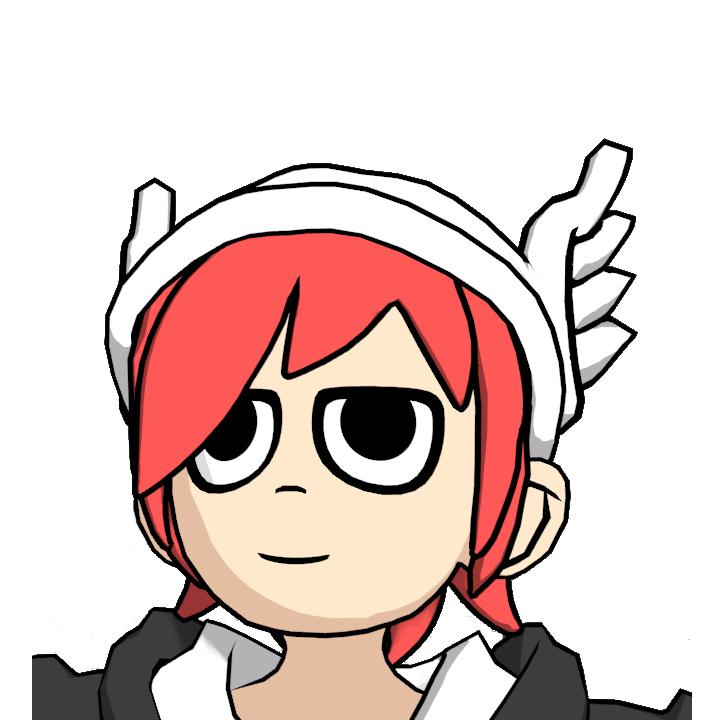
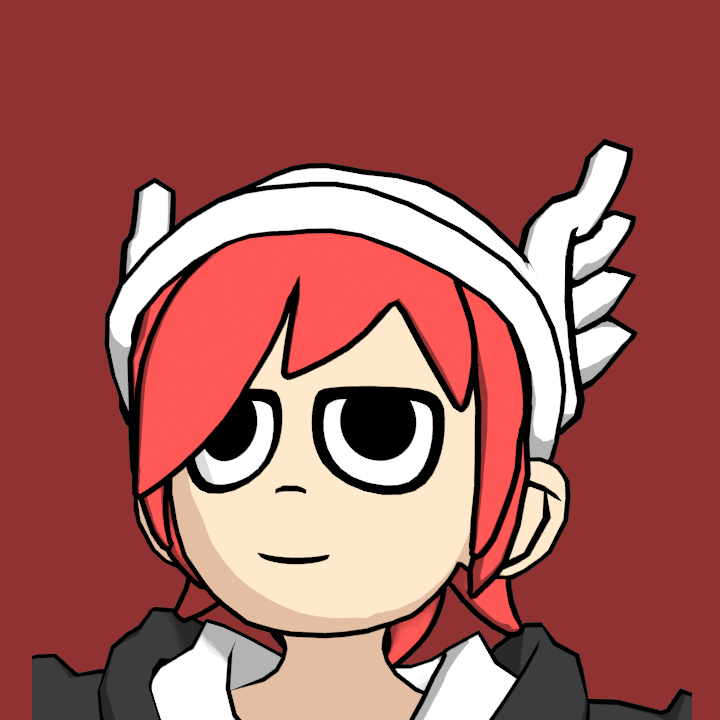
fixes for image profile background color, resume download and HFSM project thumbail

diff --git a/public/projects/index.html b/public/projects/index.html
@@ -43,7 +43,7 @@
   <div class="sidebar-content">
     <h1 class="sidebar-heading"><a href="http://localhost:1313/">Alejandro Moya</a></h1>
 	<img id="profile-picture" class="img-responsive" src="/img/ProfilePicture.png"/>
-	<a id="curriculum" title ="Download CV" href="/resume/ResumeAlejandroMoya.pdf" target="_blank" >
+	<a id="curriculum" title ="Download CV" href="http://localhost:1313//resume/ResumeAlejandroMoya.pdf" target="_blank" >
 		<svg xmlns="http://www.w3.org/2000/svg" width="70" height="70" fill="currentColor" class="bi bi-file-earmark-text" viewBox="0 0 16 16">
 		  <path d="M5.5 7a.5.5 0 0 0 0 1h5a.5.5 0 0 0 0-1zM5 9.5a.5.5 0 0 1 .5-.5h5a.5.5 0 0 1 0 1h-5a.5.5 0 0 1-.5-.5m0 2a.5.5 0 0 1 .5-.5h2a.5.5 0 0 1 0 1h-2a.5.5 0 0 1-.5-.5"/>
 		  <path d="M9.5 0H4a2 2 0 0 0-2 2v12a2 2 0 0 0 2 2h8a2 2 0 0 0 2-2V4.5zm0 1v2A1.5 1.5 0 0 0 11 4.5h2V14a1 1 0 0 1-1 1H4a1 1 0 0 1-1-1V2a1 1 0 0 1 1-1z"/>
@@ -150,7 +150,7 @@
                         
                         <a href="http://localhost:1313/projects/hfsm/" title="" class="box-masonry-image with-hover-overlay with-hover-icon projects">
                         
-                        <img src="http://localhost:1313/img/HFSM.png" alt="" class="img-responsive">
+                        <img src="http://localhost:1313/img/HFSMLogo.png" alt="" class="img-responsive">
                         
                       
                       

diff --git a/themes/hugo-creative-portfolio-theme/layouts/partials/sidebar.html b/themes/hugo-creative-portfolio-theme/layouts/partials/sidebar.html
@@ -2,7 +2,7 @@
   <div class="sidebar-content">
     <h1 class="sidebar-heading"><a href="{{ .Site.BaseURL }}">{{ .Site.Title }}</a></h1>
 	<img id="profile-picture" class="img-responsive" src="{{.Site.Params.profilepicturepath}}"/>
-	<a id="curriculum" title ="Download CV" href="/resume/ResumeAlejandroMoya.pdf" target="_blank" >
+	<a id="curriculum" title ="Download CV" href="{{ .Site.BaseURL }}/resume/ResumeAlejandroMoya.pdf" target="_blank" >
 		<svg xmlns="http://www.w3.org/2000/svg" width="70" height="70" fill="currentColor" class="bi bi-file-earmark-text" viewBox="0 0 16 16">
 		  <path d="M5.5 7a.5.5 0 0 0 0 1h5a.5.5 0 0 0 0-1zM5 9.5a.5.5 0 0 1 .5-.5h5a.5.5 0 0 1 0 1h-5a.5.5 0 0 1-.5-.5m0 2a.5.5 0 0 1 .5-.5h2a.5.5 0 0 1 0 1h-2a.5.5 0 0 1-.5-.5"/>
 		  <path d="M9.5 0H4a2 2 0 0 0-2 2v12a2 2 0 0 0 2 2h8a2 2 0 0 0 2-2V4.5zm0 1v2A1.5 1.5 0 0 0 11 4.5h2V14a1 1 0 0 1-1 1H4a1 1 0 0 1-1-1V2a1 1 0 0 1 1-1z"/>

diff --git a/public/404.html b/public/404.html
@@ -41,7 +41,7 @@
   <div class="sidebar-content">
     <h1 class="sidebar-heading"><a href="http://localhost:1313/">Alejandro Moya</a></h1>
 	<img id="profile-picture" class="img-responsive" src="/img/ProfilePicture.png"/>
-	<a id="curriculum" title ="Download CV" href="/resume/ResumeAlejandroMoya.pdf" target="_blank" >
+	<a id="curriculum" title ="Download CV" href="http://localhost:1313//resume/ResumeAlejandroMoya.pdf" target="_blank" >
 		<svg xmlns="http://www.w3.org/2000/svg" width="70" height="70" fill="currentColor" class="bi bi-file-earmark-text" viewBox="0 0 16 16">
 		  <path d="M5.5 7a.5.5 0 0 0 0 1h5a.5.5 0 0 0 0-1zM5 9.5a.5.5 0 0 1 .5-.5h5a.5.5 0 0 1 0 1h-5a.5.5 0 0 1-.5-.5m0 2a.5.5 0 0 1 .5-.5h2a.5.5 0 0 1 0 1h-2a.5.5 0 0 1-.5-.5"/>
 		  <path d="M9.5 0H4a2 2 0 0 0-2 2v12a2 2 0 0 0 2 2h8a2 2 0 0 0 2-2V4.5zm0 1v2A1.5 1.5 0 0 0 11 4.5h2V14a1 1 0 0 1-1 1H4a1 1 0 0 1-1-1V2a1 1 0 0 1 1-1z"/>

diff --git a/public/categories/index.html b/public/categories/index.html
@@ -43,7 +43,7 @@
   <div class="sidebar-content">
     <h1 class="sidebar-heading"><a href="http://localhost:1313/">Alejandro Moya</a></h1>
 	<img id="profile-picture" class="img-responsive" src="/img/ProfilePicture.png"/>
-	<a id="curriculum" title ="Download CV" href="/resume/ResumeAlejandroMoya.pdf" target="_blank" >
+	<a id="curriculum" title ="Download CV" href="http://localhost:1313//resume/ResumeAlejandroMoya.pdf" target="_blank" >
 		<svg xmlns="http://www.w3.org/2000/svg" width="70" height="70" fill="currentColor" class="bi bi-file-earmark-text" viewBox="0 0 16 16">
 		  <path d="M5.5 7a.5.5 0 0 0 0 1h5a.5.5 0 0 0 0-1zM5 9.5a.5.5 0 0 1 .5-.5h5a.5.5 0 0 1 0 1h-5a.5.5 0 0 1-.5-.5m0 2a.5.5 0 0 1 .5-.5h2a.5.5 0 0 1 0 1h-2a.5.5 0 0 1-.5-.5"/>
 		  <path d="M9.5 0H4a2 2 0 0 0-2 2v12a2 2 0 0 0 2 2h8a2 2 0 0 0 2-2V4.5zm0 1v2A1.5 1.5 0 0 0 11 4.5h2V14a1 1 0 0 1-1 1H4a1 1 0 0 1-1-1V2a1 1 0 0 1 1-1z"/>

diff --git a/public/education/index.html b/public/education/index.html
@@ -41,7 +41,7 @@
   <div class="sidebar-content">
     <h1 class="sidebar-heading"><a href="http://localhost:1313/">Alejandro Moya</a></h1>
 	<img id="profile-picture" class="img-responsive" src="/img/ProfilePicture.png"/>
-	<a id="curriculum" title ="Download CV" href="/resume/ResumeAlejandroMoya.pdf" target="_blank" >
+	<a id="curriculum" title ="Download CV" href="http://localhost:1313//resume/ResumeAlejandroMoya.pdf" target="_blank" >
 		<svg xmlns="http://www.w3.org/2000/svg" width="70" height="70" fill="currentColor" class="bi bi-file-earmark-text" viewBox="0 0 16 16">
 		  <path d="M5.5 7a.5.5 0 0 0 0 1h5a.5.5 0 0 0 0-1zM5 9.5a.5.5 0 0 1 .5-.5h5a.5.5 0 0 1 0 1h-5a.5.5 0 0 1-.5-.5m0 2a.5.5 0 0 1 .5-.5h2a.5.5 0 0 1 0 1h-2a.5.5 0 0 1-.5-.5"/>
 		  <path d="M9.5 0H4a2 2 0 0 0-2 2v12a2 2 0 0 0 2 2h8a2 2 0 0 0 2-2V4.5zm0 1v2A1.5 1.5 0 0 0 11 4.5h2V14a1 1 0 0 1-1 1H4a1 1 0 0 1-1-1V2a1 1 0 0 1 1-1z"/>

diff --git a/public/projects/christmaspizza/index.html b/public/projects/christmaspizza/index.html
@@ -41,7 +41,7 @@
   <div class="sidebar-content">
     <h1 class="sidebar-heading"><a href="http://localhost:1313/">Alejandro Moya</a></h1>
 	<img id="profile-picture" class="img-responsive" src="/img/ProfilePicture.png"/>
-	<a id="curriculum" title ="Download CV" href="/resume/ResumeAlejandroMoya.pdf" target="_blank" >
+	<a id="curriculum" title ="Download CV" href="http://localhost:1313//resume/ResumeAlejandroMoya.pdf" target="_blank" >
 		<svg xmlns="http://www.w3.org/2000/svg" width="70" height="70" fill="currentColor" class="bi bi-file-earmark-text" viewBox="0 0 16 16">
 		  <path d="M5.5 7a.5.5 0 0 0 0 1h5a.5.5 0 0 0 0-1zM5 9.5a.5.5 0 0 1 .5-.5h5a.5.5 0 0 1 0 1h-5a.5.5 0 0 1-.5-.5m0 2a.5.5 0 0 1 .5-.5h2a.5.5 0 0 1 0 1h-2a.5.5 0 0 1-.5-.5"/>
 		  <path d="M9.5 0H4a2 2 0 0 0-2 2v12a2 2 0 0 0 2 2h8a2 2 0 0 0 2-2V4.5zm0 1v2A1.5 1.5 0 0 0 11 4.5h2V14a1 1 0 0 1-1 1H4a1 1 0 0 1-1-1V2a1 1 0 0 1 1-1z"/>

diff --git a/public/projects/hfsm/index.html b/public/projects/hfsm/index.html
@@ -41,7 +41,7 @@
   <div class="sidebar-content">
     <h1 class="sidebar-heading"><a href="http://localhost:1313/">Alejandro Moya</a></h1>
 	<img id="profile-picture" class="img-responsive" src="/img/ProfilePicture.png"/>
-	<a id="curriculum" title ="Download CV" href="/resume/ResumeAlejandroMoya.pdf" target="_blank" >
+	<a id="curriculum" title ="Download CV" href="http://localhost:1313//resume/ResumeAlejandroMoya.pdf" target="_blank" >
 		<svg xmlns="http://www.w3.org/2000/svg" width="70" height="70" fill="currentColor" class="bi bi-file-earmark-text" viewBox="0 0 16 16">
 		  <path d="M5.5 7a.5.5 0 0 0 0 1h5a.5.5 0 0 0 0-1zM5 9.5a.5.5 0 0 1 .5-.5h5a.5.5 0 0 1 0 1h-5a.5.5 0 0 1-.5-.5m0 2a.5.5 0 0 1 .5-.5h2a.5.5 0 0 1 0 1h-2a.5.5 0 0 1-.5-.5"/>
 		  <path d="M9.5 0H4a2 2 0 0 0-2 2v12a2 2 0 0 0 2 2h8a2 2 0 0 0 2-2V4.5zm0 1v2A1.5 1.5 0 0 0 11 4.5h2V14a1 1 0 0 1-1 1H4a1 1 0 0 1-1-1V2a1 1 0 0 1 1-1z"/>

diff --git a/public/projects/princeofpersia/index.html b/public/projects/princeofpersia/index.html
@@ -41,7 +41,7 @@
   <div class="sidebar-content">
     <h1 class="sidebar-heading"><a href="http://localhost:1313/">Alejandro Moya</a></h1>
 	<img id="profile-picture" class="img-responsive" src="/img/ProfilePicture.png"/>
-	<a id="curriculum" title ="Download CV" href="/resume/ResumeAlejandroMoya.pdf" target="_blank" >
+	<a id="curriculum" title ="Download CV" href="http://localhost:1313//resume/ResumeAlejandroMoya.pdf" target="_blank" >
 		<svg xmlns="http://www.w3.org/2000/svg" width="70" height="70" fill="currentColor" class="bi bi-file-earmark-text" viewBox="0 0 16 16">
 		  <path d="M5.5 7a.5.5 0 0 0 0 1h5a.5.5 0 0 0 0-1zM5 9.5a.5.5 0 0 1 .5-.5h5a.5.5 0 0 1 0 1h-5a.5.5 0 0 1-.5-.5m0 2a.5.5 0 0 1 .5-.5h2a.5.5 0 0 1 0 1h-2a.5.5 0 0 1-.5-.5"/>
 		  <path d="M9.5 0H4a2 2 0 0 0-2 2v12a2 2 0 0 0 2 2h8a2 2 0 0 0 2-2V4.5zm0 1v2A1.5 1.5 0 0 0 11 4.5h2V14a1 1 0 0 1-1 1H4a1 1 0 0 1-1-1V2a1 1 0 0 1 1-1z"/>

diff --git a/public/projects/smashbros/index.html b/public/projects/smashbros/index.html
@@ -41,7 +41,7 @@
   <div class="sidebar-content">
     <h1 class="sidebar-heading"><a href="http://localhost:1313/">Alejandro Moya</a></h1>
 	<img id="profile-picture" class="img-responsive" src="/img/ProfilePicture.png"/>
-	<a id="curriculum" title ="Download CV" href="/resume/ResumeAlejandroMoya.pdf" target="_blank" >
+	<a id="curriculum" title ="Download CV" href="http://localhost:1313//resume/ResumeAlejandroMoya.pdf" target="_blank" >
 		<svg xmlns="http://www.w3.org/2000/svg" width="70" height="70" fill="currentColor" class="bi bi-file-earmark-text" viewBox="0 0 16 16">
 		  <path d="M5.5 7a.5.5 0 0 0 0 1h5a.5.5 0 0 0 0-1zM5 9.5a.5.5 0 0 1 .5-.5h5a.5.5 0 0 1 0 1h-5a.5.5 0 0 1-.5-.5m0 2a.5.5 0 0 1 .5-.5h2a.5.5 0 0 1 0 1h-2a.5.5 0 0 1-.5-.5"/>
 		  <path d="M9.5 0H4a2 2 0 0 0-2 2v12a2 2 0 0 0 2 2h8a2 2 0 0 0 2-2V4.5zm0 1v2A1.5 1.5 0 0 0 11 4.5h2V14a1 1 0 0 1-1 1H4a1 1 0 0 1-1-1V2a1 1 0 0 1 1-1z"/>

diff --git a/public/tags/index.html b/public/tags/index.html
@@ -43,7 +43,7 @@
   <div class="sidebar-content">
     <h1 class="sidebar-heading"><a href="http://localhost:1313/">Alejandro Moya</a></h1>
 	<img id="profile-picture" class="img-responsive" src="/img/ProfilePicture.png"/>
-	<a id="curriculum" title ="Download CV" href="/resume/ResumeAlejandroMoya.pdf" target="_blank" >
+	<a id="curriculum" title ="Download CV" href="http://localhost:1313//resume/ResumeAlejandroMoya.pdf" target="_blank" >
 		<svg xmlns="http://www.w3.org/2000/svg" width="70" height="70" fill="currentColor" class="bi bi-file-earmark-text" viewBox="0 0 16 16">
 		  <path d="M5.5 7a.5.5 0 0 0 0 1h5a.5.5 0 0 0 0-1zM5 9.5a.5.5 0 0 1 .5-.5h5a.5.5 0 0 1 0 1h-5a.5.5 0 0 1-.5-.5m0 2a.5.5 0 0 1 .5-.5h2a.5.5 0 0 1 0 1h-2a.5.5 0 0 1-.5-.5"/>
 		  <path d="M9.5 0H4a2 2 0 0 0-2 2v12a2 2 0 0 0 2 2h8a2 2 0 0 0 2-2V4.5zm0 1v2A1.5 1.5 0 0 0 11 4.5h2V14a1 1 0 0 1-1 1H4a1 1 0 0 1-1-1V2a1 1 0 0 1 1-1z"/>

diff --git a/public/work/alderongames/index.html b/public/work/alderongames/index.html
@@ -41,7 +41,7 @@
   <div class="sidebar-content">
     <h1 class="sidebar-heading"><a href="http://localhost:1313/">Alejandro Moya</a></h1>
 	<img id="profile-picture" class="img-responsive" src="/img/ProfilePicture.png"/>
-	<a id="curriculum" title ="Download CV" href="/resume/ResumeAlejandroMoya.pdf" target="_blank" >
+	<a id="curriculum" title ="Download CV" href="http://localhost:1313//resume/ResumeAlejandroMoya.pdf" target="_blank" >
 		<svg xmlns="http://www.w3.org/2000/svg" width="70" height="70" fill="currentColor" class="bi bi-file-earmark-text" viewBox="0 0 16 16">
 		  <path d="M5.5 7a.5.5 0 0 0 0 1h5a.5.5 0 0 0 0-1zM5 9.5a.5.5 0 0 1 .5-.5h5a.5.5 0 0 1 0 1h-5a.5.5 0 0 1-.5-.5m0 2a.5.5 0 0 1 .5-.5h2a.5.5 0 0 1 0 1h-2a.5.5 0 0 1-.5-.5"/>
 		  <path d="M9.5 0H4a2 2 0 0 0-2 2v12a2 2 0 0 0 2 2h8a2 2 0 0 0 2-2V4.5zm0 1v2A1.5 1.5 0 0 0 11 4.5h2V14a1 1 0 0 1-1 1H4a1 1 0 0 1-1-1V2a1 1 0 0 1 1-1z"/>

diff --git a/public/work/drotium/index.html b/public/work/drotium/index.html
@@ -41,7 +41,7 @@
   <div class="sidebar-content">
     <h1 class="sidebar-heading"><a href="http://localhost:1313/">Alejandro Moya</a></h1>
 	<img id="profile-picture" class="img-responsive" src="/img/ProfilePicture.png"/>
-	<a id="curriculum" title ="Download CV" href="/resume/ResumeAlejandroMoya.pdf" target="_blank" >
+	<a id="curriculum" title ="Download CV" href="http://localhost:1313//resume/ResumeAlejandroMoya.pdf" target="_blank" >
 		<svg xmlns="http://www.w3.org/2000/svg" width="70" height="70" fill="currentColor" class="bi bi-file-earmark-text" viewBox="0 0 16 16">
 		  <path d="M5.5 7a.5.5 0 0 0 0 1h5a.5.5 0 0 0 0-1zM5 9.5a.5.5 0 0 1 .5-.5h5a.5.5 0 0 1 0 1h-5a.5.5 0 0 1-.5-.5m0 2a.5.5 0 0 1 .5-.5h2a.5.5 0 0 1 0 1h-2a.5.5 0 0 1-.5-.5"/>
 		  <path d="M9.5 0H4a2 2 0 0 0-2 2v12a2 2 0 0 0 2 2h8a2 2 0 0 0 2-2V4.5zm0 1v2A1.5 1.5 0 0 0 11 4.5h2V14a1 1 0 0 1-1 1H4a1 1 0 0 1-1-1V2a1 1 0 0 1 1-1z"/>
